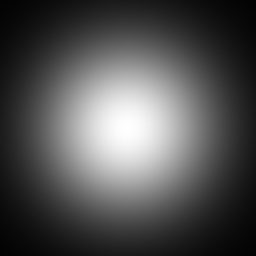
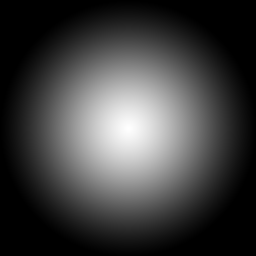
Fixed bug where lights were not being added together to the lightmap.

diff --git a/src/com/fisherevans/lrk/states/adventure/lights/LightManager.java b/src/com/fisherevans/lrk/states/adventure/lights/LightManager.java
@@ -4,6 +4,7 @@ import com.fisherevans.lrk.LRK;
 import com.fisherevans.lrk.managers.DisplayManager;
 import com.fisherevans.lrk.states.adventure.AdventureState;
 import org.jbox2d.common.Vec2;
+import org.lwjgl.LWJGLException;
 import org.lwjgl.opengl.GL11;
 import org.lwjgl.opengl.GL14;
 import org.newdawn.slick.Color;
@@ -27,23 +28,22 @@ public class LightManager
 {
     private AdventureState _parent;
     private ArrayList<Light> _lights, _toRemove;
-    private Image _lightBuffer, _lightFrameBuffer, _visibleBuffer;
-    private Graphics _lightGfx, _lightFrameGfx, _visibleGfx;
+    private Image _lightBuffer, _mapBuffer, _visibleBuffer;
+    private Graphics _lightGfx, _mapGfx, _visibleGfx;
     private Color _ambientLight;
     private Light _cameraLight;
     private Shader _blurH, _blurV;
 
     private final int LIGHT_SIZE = 256;
     private final float DEFAULT_LIGHT_RADIUS = 4f;
-    private final Color LIGHT_BUFFER_CLEAR_COLOR = new Color(1f, 1f, 1f, 0f);
 
     public LightManager(AdventureState parent, Color ambientLight)
     {
         _parent = parent;
         _ambientLight = ambientLight;
+
         _lights = new ArrayList<>();
         _toRemove = new ArrayList<>();
-        resize();
 
         try
         {
@@ -52,10 +52,13 @@ public class LightManager
 
             _lightBuffer = new Image(LIGHT_SIZE, LIGHT_SIZE);
             _lightGfx = _lightBuffer.getGraphics();
-        } catch (SlickException e)
+        }
+        catch (SlickException e)
         {
             e.printStackTrace();  //To change body of catch statement use File | Settings | File Templates.
         }
+
+        resize();
     }
 
     public void update(float delta)
@@ -73,100 +76,65 @@ public class LightManager
 
     public void render(Graphics gfx, float xShift, float yShift)
     {
-        GL11.glEnable(GL11.GL_BLEND);
-        float x, y, fullSize, halfSize;
+        // CLEAr THE LIGHT FRAME WITH AMBIENT LIGHT
+        Graphics.setCurrent(_mapGfx);
+        _mapGfx.clear();
+        _mapGfx.setColor(_ambientLight);
+        _mapGfx.fillRect(0, 0, _mapBuffer.getWidth(), _mapBuffer.getHeight());
 
-        _lightFrameGfx.clear();
-        _lightFrameGfx.setColor(_ambientLight);
-        _lightFrameGfx.fillRect(0, 0, _lightFrameBuffer.getWidth(), _lightFrameBuffer.getHeight());
+        float x, y, fullSize, halfSize;
         Light light;
-        for(int id = _lights.size()-1;id >= 0;id--)
+        for(int id = _lights.size()-1;id >= 0;id--) // FOR EACH LIGHT, GOING BACKWARDS
         {
             light = _lights.get(id);
-            if(_parent.inRenderArea(light.getPosition(), light.getRadius()))
+            if(_parent.inRenderArea(light.getPosition(), light.getRadius())) // IF THE LIGHT IS IN THE RENDER AREA
             {
                 halfSize = light.getRadius()*AdventureState.TILE_SIZE;
                 fullSize = halfSize*2f;
-
                 x = xShift+light.getPosition().x*AdventureState.TILE_SIZE - halfSize;
                 y = yShift+light.getPosition().y*AdventureState.TILE_SIZE - halfSize;
 
+                // RENDER THE LIGHT IMAGE TO THE LIGHT BUFFER, THEN DRAW THE SHADOWS
+                Graphics.setCurrent(_lightGfx);
                 _lightGfx.clear();
-                _lightGfx.drawImage(light.getImage().getScaledCopy(_lightBuffer.getWidth(), _lightBuffer.getHeight()), 0, 0);
-                removeShadows(_lightGfx, light.getRadius(), (DEFAULT_LIGHT_RADIUS/light.getRadius())*AdventureState.TILE_SIZE, light.getPosition());
+                _lightGfx.drawImage(light.getImage().getScaledCopy(_lightBuffer.getWidth(), _lightBuffer.getHeight()), 0, 0, light.getColor());
+                paintShadows(_lightGfx, light.getRadius(), (DEFAULT_LIGHT_RADIUS / light.getRadius()) * AdventureState.TILE_SIZE, light.getPosition());
                 _lightGfx.flush();
-                //GL14.glBlendFuncSeparate(GL11.GL_SRC_ALPHA, GL11.GL_ONE_MINUS_SRC_ALPHA, GL11.GL_SRC_ALPHA, GL11.GL_ONE);
-                //GL14.glBlendFuncSeparate(GL11.GL_SRC_ALPHA, GL11.GL_ONE_MINUS_SRC_ALPHA, GL11.GL_SRC_ALPHA, GL11.GL_ONE);
-                //GL11.glBlendFunc(GL11.GL_ONE, GL11.GL_ONE);
-                gfx.setDrawMode(Graphics.MODE_ADD);
-                _lightFrameGfx.drawImage(_lightBuffer.getScaledCopy((int)fullSize, (int)fullSize), x, y);//, light.getColor());
+
+                // DRAW THE LIGHT TO THE FRAME BUFFER
+                Graphics.setCurrent(_mapGfx);
+                GL11.glBlendFunc(GL11.GL_ONE, GL11.GL_ONE);
+                _mapGfx.drawImage(_lightBuffer.getScaledCopy((int) fullSize, (int) fullSize), x, y);//, light.getColor());
                 gfx.setDrawMode(Graphics.MODE_NORMAL);
             }
         }
+        _mapGfx.flush();
 
-        _lightFrameGfx.flush();
-        //paintBuffer(gfx);
-        paintBufferDebug(gfx);
+        // DRAW THE LIGHT MAP OVER THE SCENE
+        Graphics.setCurrent(gfx);
 
-        /*_visibleGfx.clear();
-        _visibleGfx.setColor(Color.white);
-        _visibleGfx.fillRect(0, 0, _lightFrameBuffer.getWidth(), _lightFrameBuffer.getHeight());
-        _visibleGfx.setColor(_ambientLight);
-        Rectangle lightRect = new Rectangle(_parent.getCamera().getX() - _parent.getRenderDistance(), _parent.getCamera().getY() - _parent.getRenderDistance(),
-                _parent.getRenderDistance()*2, _parent.getRenderDistance()*2);
-        float rayLength = new Vec2(lightRect.getX(), lightRect.getY()).sub(new Vec2(lightRect.getCenterX(), lightRect.getCenterY())).length();
-        Vec2 pL = _parent.getCamera().getBody().getPosition().clone();
-        Vec2 pA, pB, pX, pY;
-        float[] points = new float[8];
-        Polygon fillShape;
-        *//*
-          X _______ Y
-            \    /
-           A \__/ B
-
-              * L
-         *//*
-        for(ShadowLine line:_parent.getShadowMap().getLines())
-        {
-            if(line.getBoundingBox().intersects(lightRect))
-            {
-                pA = line.getPointA();
-                pB = line.getPointB();
-                pX = pA.add(pA.sub(pL).mul(rayLength));
-                pY = pB.add(pB.sub(pL).mul(rayLength));
-                points[0] = (pA.x*AdventureState.TILE_SIZE) + xShift; points[1] = (pA.y*AdventureState.TILE_SIZE) + yShift;
-                points[2] = (pX.x*AdventureState.TILE_SIZE) + xShift; points[3] = (pX.y*AdventureState.TILE_SIZE) + yShift;
-                points[4] = (pY.x*AdventureState.TILE_SIZE) + xShift; points[5] = (pY.y*AdventureState.TILE_SIZE) + yShift;
-                points[6] = (pB.x*AdventureState.TILE_SIZE) + xShift; points[7] = (pB.y*AdventureState.TILE_SIZE) + yShift;
-                fillShape = new Polygon(points);
-                _visibleGfx.fill(fillShape);
-                //LRK.log("Filled shape: " + points[0]+","+points[1] + " ; " + points[2]+","+points[3] + " ; " + points[4]+","+points[5] + " ; " + points[6]+","+points[7]);
-            }
-        }
-        _visibleGfx.flush();
-
+        /*_blurV.startShader();
+        _blurV.setUniformFloatVariable("resolution", DisplayManager.getWindowHeight());
+        _blurV.setUniformFloatVariable("radius", DisplayManager.getBackgroundScale());
 
         _blurH.startShader();
         _blurH.setUniformFloatVariable("resolution", DisplayManager.getWindowWidth());
-        _blurH.setUniformFloatVariable("radius", DisplayManager.getBackgroundScale()*2);
+        _blurH.setUniformFloatVariable("radius", DisplayManager.getBackgroundScale());*/
 
-        _blurV.startShader();
-        _blurV.setUniformFloatVariable("resolution", DisplayManager.getWindowHeight());
-        _blurV.setUniformFloatVariable("radius", DisplayManager.getBackgroundScale()*2);
+        paintBuffer(gfx);
+        //paintBufferDebug(gfx);
 
-        GL11.glBlendFunc(GL11.GL_DST_COLOR, GL11.GL_ONE_MINUS_SRC_ALPHA);
-        gfx.drawImage(_visibleBuffer, 0, 0);
-        gfx.setDrawMode(Graphics.MODE_NORMAL);
-
-        Shader.forceFixedShader();*/
+        //Shader.forceFixedShader();
     }
 
-    private void removeShadows(Graphics gfx, float lightRadius, float pixelPerUnit, Vec2 lightPoint)
+    private void paintShadows(Graphics gfx, float lightRadius, float pixelPerUnit, Vec2 lightPoint)
     {
-        gfx.setColor(Color.black);
+        paintShadows(gfx, Color.black, lightRadius, pixelPerUnit, lightPoint);
+    }
 
-        //GL14.glBlendFuncSeparate(GL11.GL_ZERO, GL11.GL_ONE, GL11.GL_ZERO, GL11.GL_SRC_COLOR);
-        //GL11.glBlendFunc(GL11.GL_ZERO, GL11.GL_SRC_COLOR);
+    private void paintShadows(Graphics gfx, Color color, float lightRadius, float pixelPerUnit, Vec2 lightPoint)
+    {
+        gfx.setColor(color);
 
         Rectangle lightRect = new Rectangle(lightPoint.x - lightRadius, lightPoint.y - lightRadius, lightRadius*2f, lightRadius*2f);
 
@@ -189,21 +157,18 @@ public class LightManager
                 gfx.fill(fillShape);
             }
         }
-
-        //gfx.setDrawMode(Graphics.MODE_NORMAL);
     }
 
     private void paintBuffer(Graphics gfx)
     {
         GL14.glBlendFuncSeparate(GL11.GL_DST_COLOR, GL11.GL_ZERO, GL11.GL_ONE, GL11.GL_ONE);
-        //GL11.glBlendFunc(GL11.GL_DST_COLOR, GL11.GL_ZERO);
-        _lightFrameBuffer.draw(0, 0);
+        _mapBuffer.draw(0, 0);
         gfx.setDrawMode(Graphics.MODE_NORMAL);
     }
 
     private void paintBufferDebug(Graphics gfx)
     {
-        gfx.drawImage(_lightFrameBuffer, 0, 0);
+        gfx.drawImage(_mapBuffer, 0, 0);
     }
 
     public void addLight(Light newLight)
@@ -222,13 +187,11 @@ public class LightManager
     {
         try
         {
-            _lightFrameBuffer = new Image((int)DisplayManager.getBackgroundWidth()+2, (int)DisplayManager.getBackgroundHeight()+2);
-            _lightFrameGfx = _lightFrameBuffer.getGraphics();
-            _lightFrameGfx.setColor(_ambientLight);
+            _mapBuffer = new Image((int)DisplayManager.getBackgroundWidth()+1, (int)DisplayManager.getBackgroundHeight()+1);
+            _mapGfx = _mapBuffer.getGraphics();
 
-            _visibleBuffer = new Image((int)DisplayManager.getBackgroundWidth()+2, (int)DisplayManager.getBackgroundHeight()+2);
-            _visibleGfx = _visibleBuffer.getGraphics();
-            _visibleGfx.setColor(Color.black);
+            _blurH.setUniformFloatVariable("resolution", DisplayManager.getWindowWidth());
+            _blurV.setUniformFloatVariable("resolution", DisplayManager.getWindowHeight());
         }
         catch (SlickException e)
         {

diff --git a/src/com/fisherevans/lrk/states/adventure/AdventureState.java b/src/com/fisherevans/lrk/states/adventure/AdventureState.java
@@ -230,7 +230,7 @@ public class AdventureState extends LRKState
         // LIGHTING SYSTEM
         _lightManager.render(gfx, xShift, yShift);
 
-        /*/ DRAW THE PRETTY VIGNETTE
+        //*/ DRAW THE PRETTY VIGNETTE
         GFX.drawImageCentered(xShift + _camera.getX()*TILE_SIZE,
                 yShift + _camera.getY()*TILE_SIZE,
                 vignetteSize, vignetteSize,
